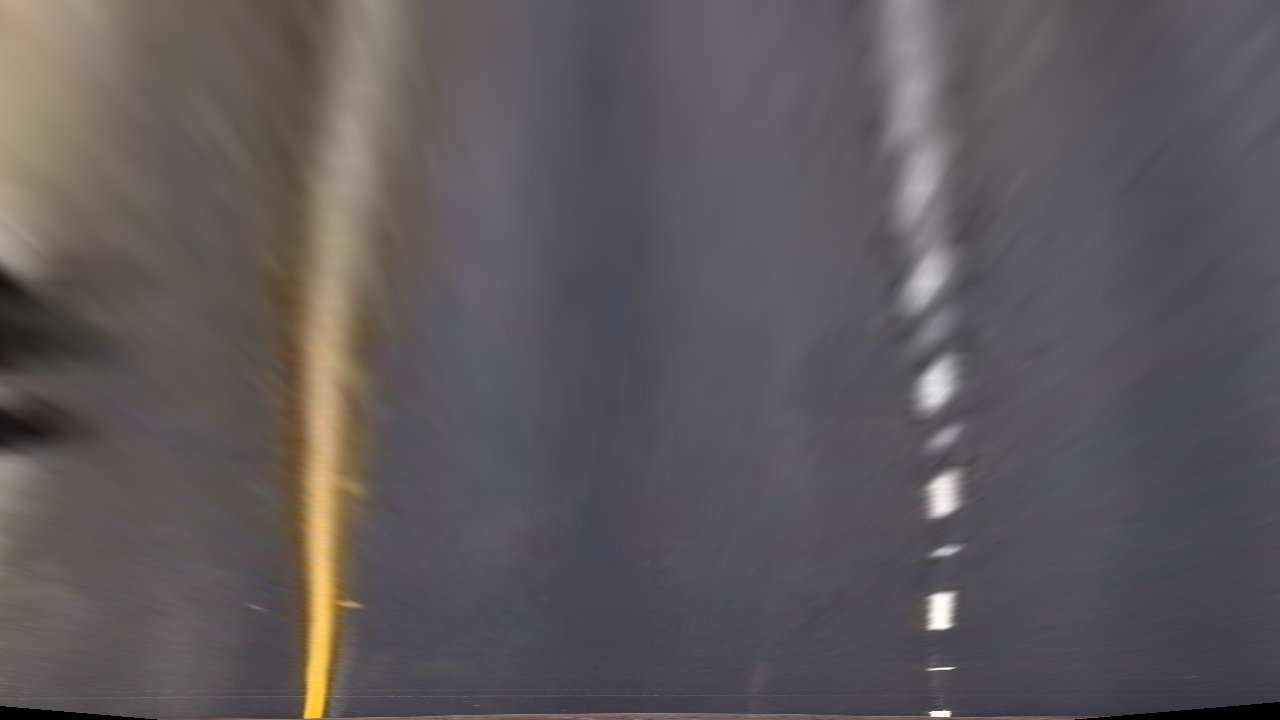
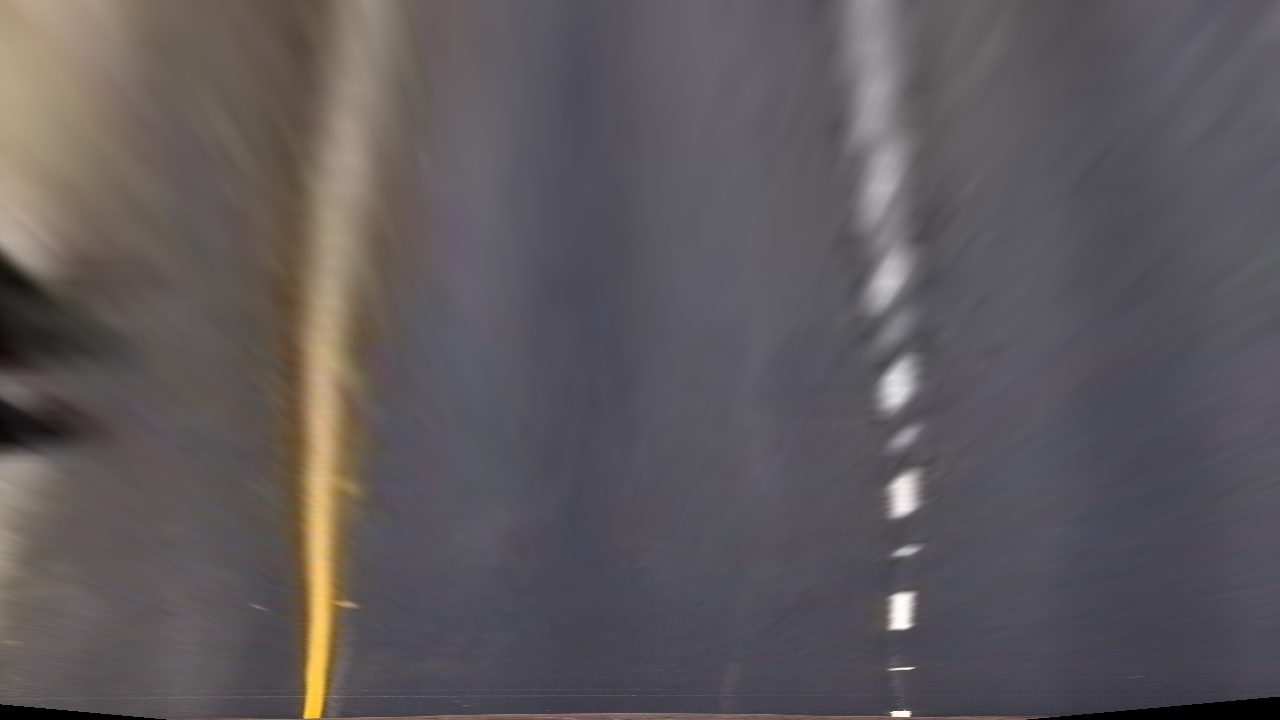
params take 2

diff --git a/src/calibration.py b/src/calibration.py
@@ -130,7 +130,7 @@ def lines_unwarp(img, mtx, dist):
     # again, not exact, but close enough for our purposes
 
     offset = 300
-    width = 650
+    width = 610
     dst = np.float32([
         [offset, 0],
         [offset+width, 0],
